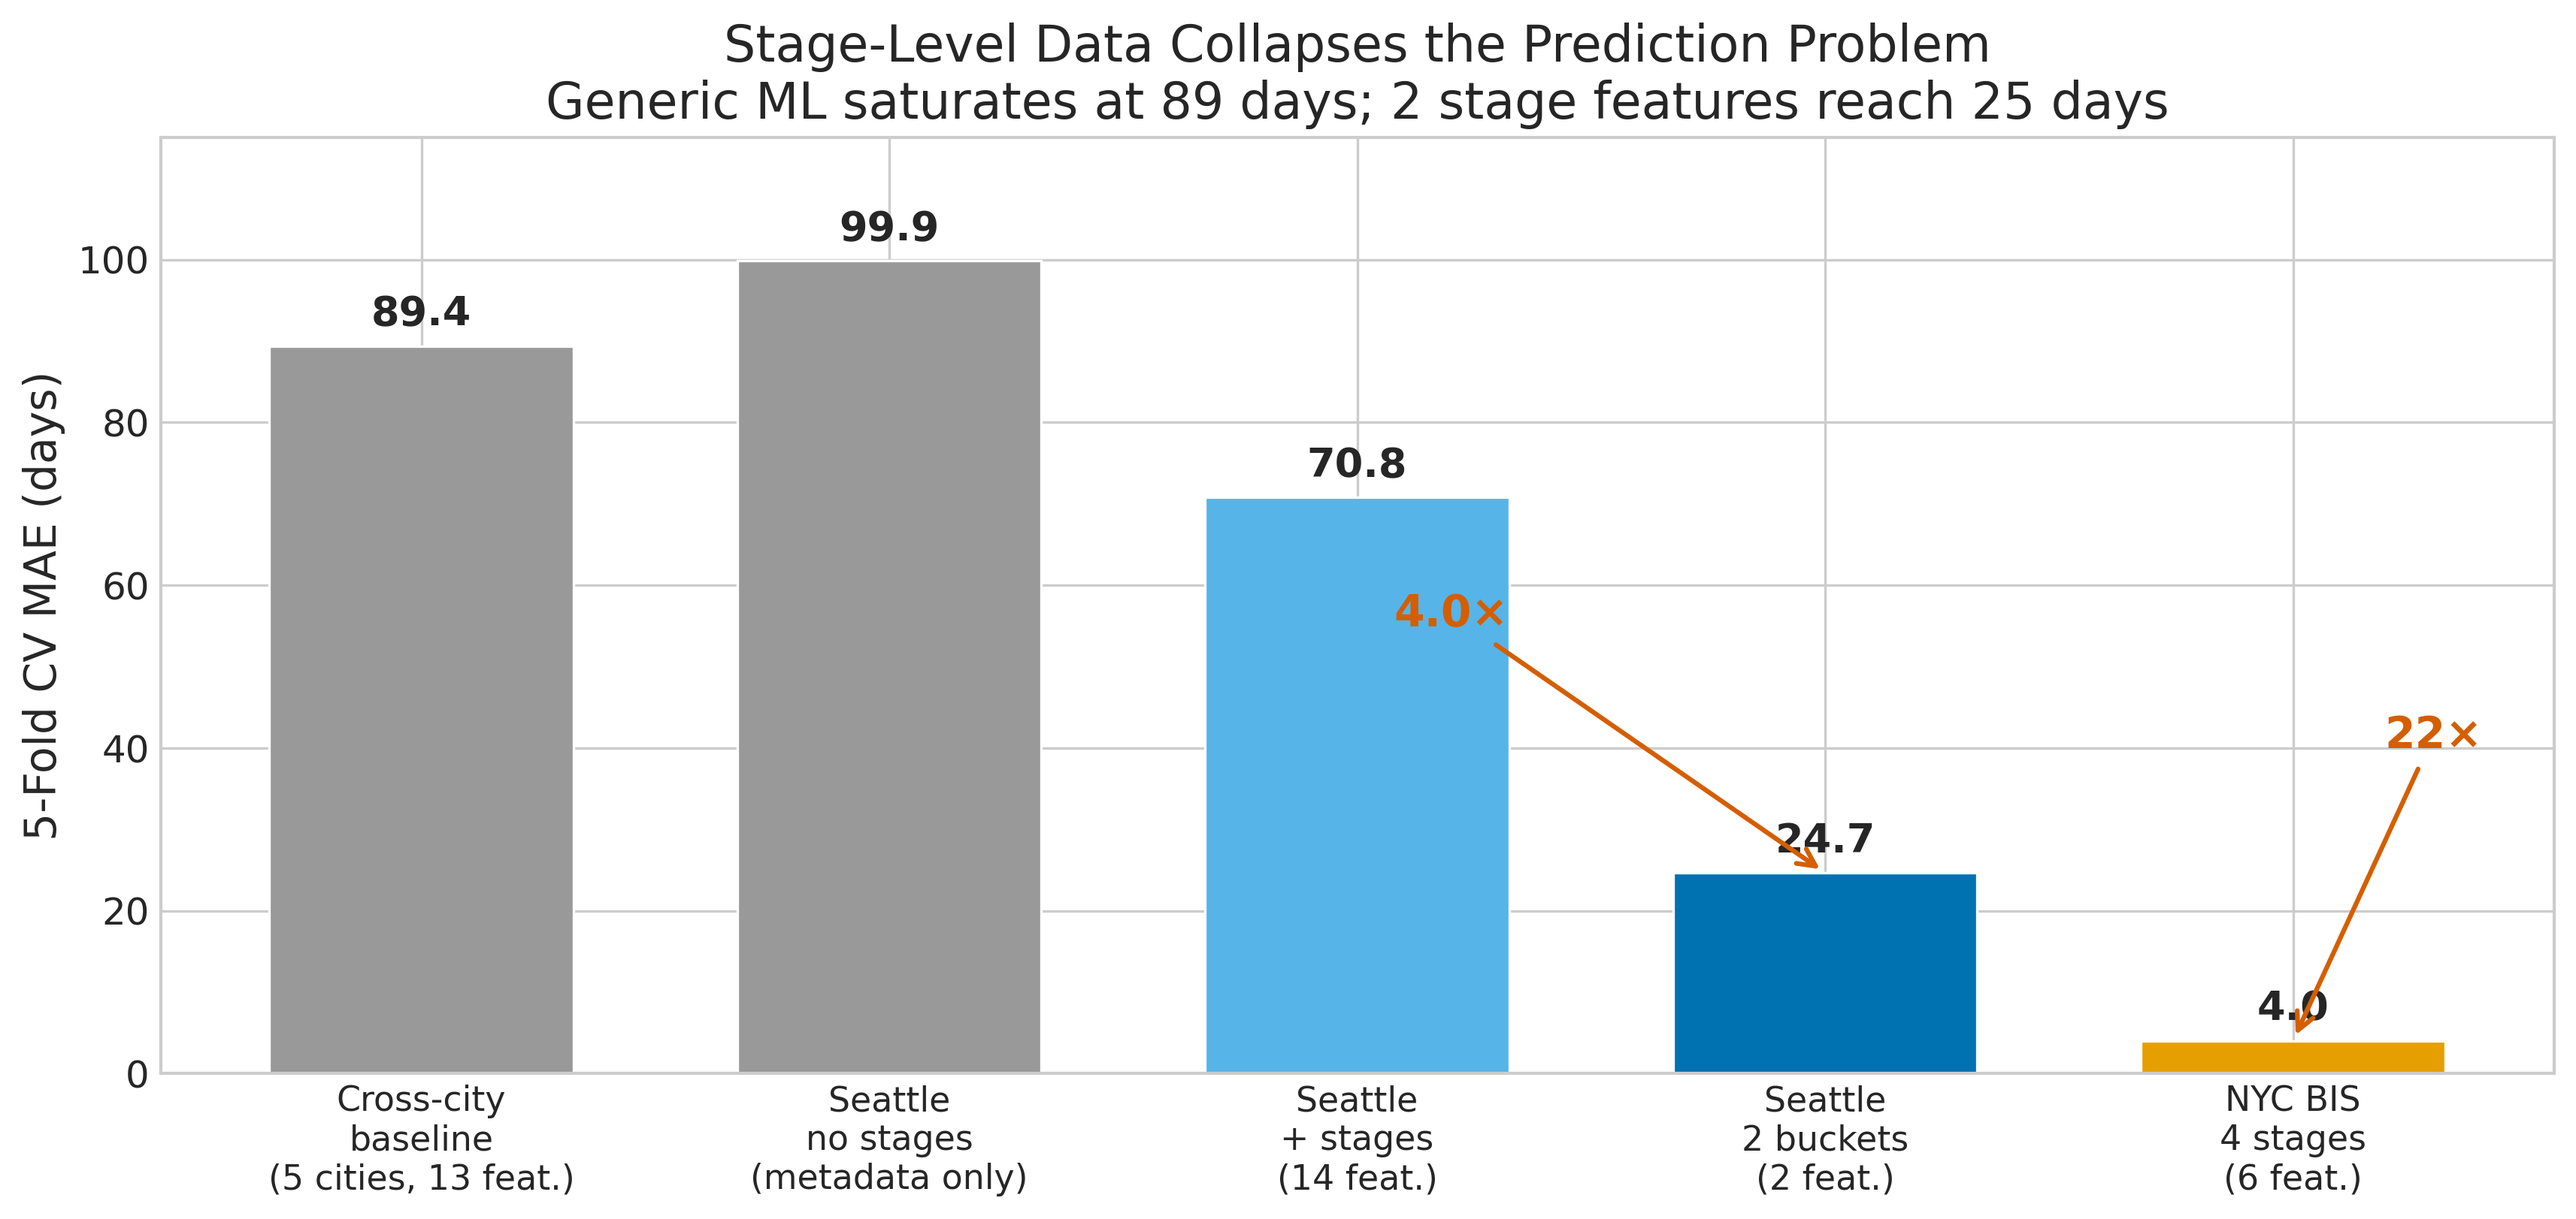
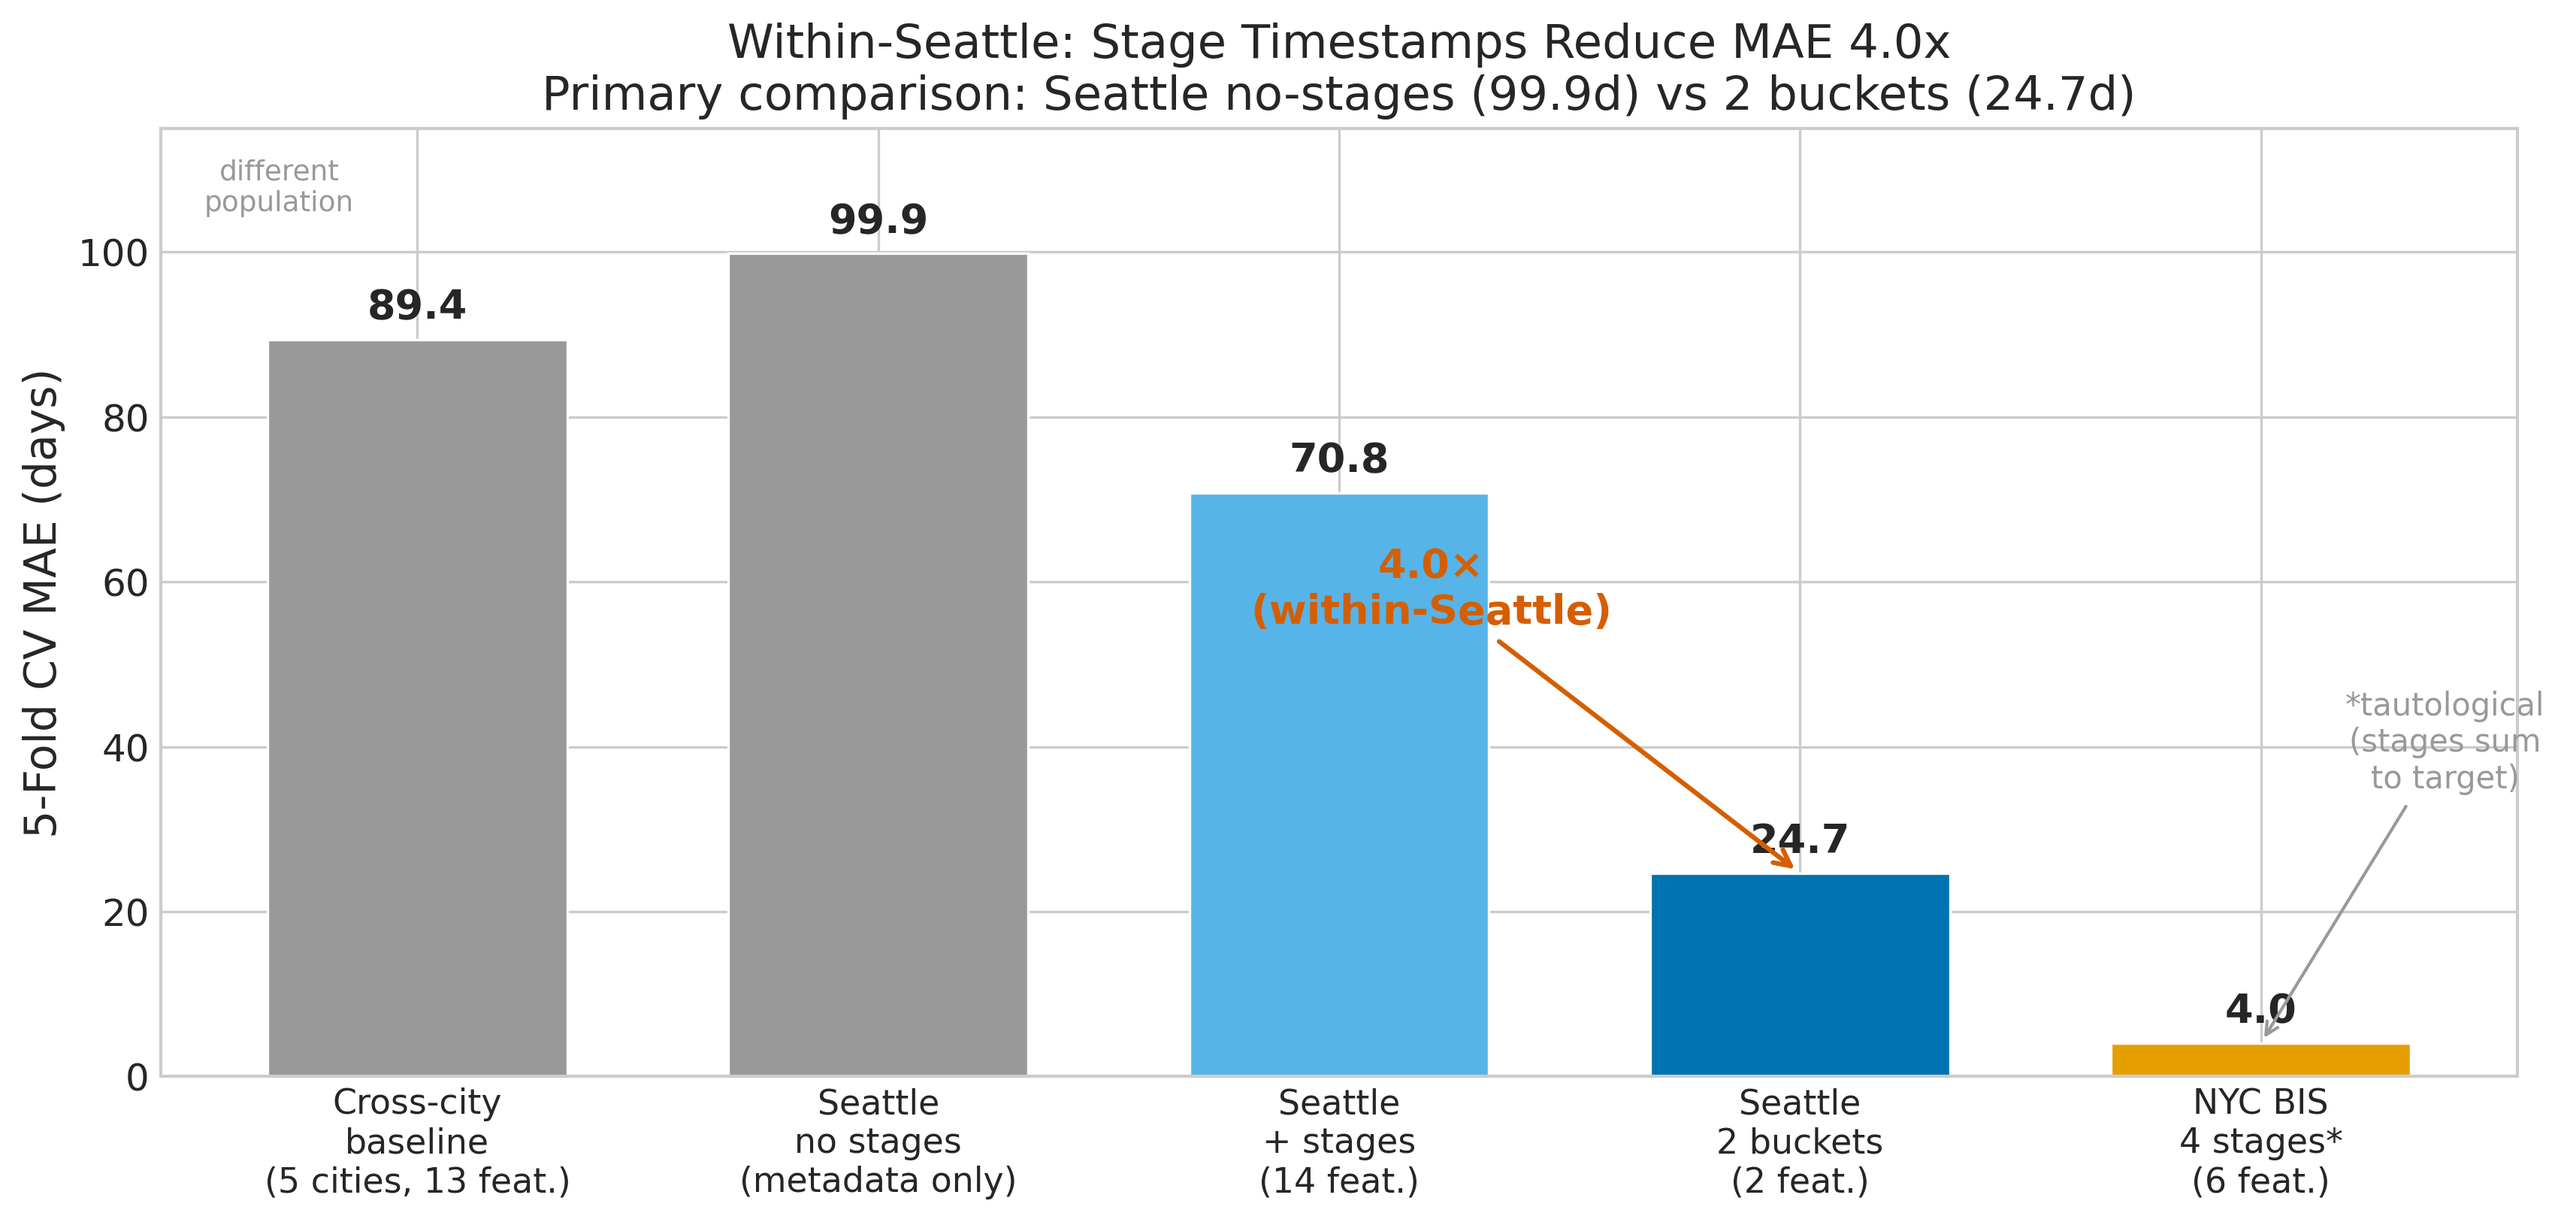
Rewrite building-permits summary to match final reviewed paper
Corrects: 120 -> 34 completed experiments, cross-city -> within-Seattle
comparison, dollar figures from sensitivity analysis. Adds duration_by_city
and phase2_waterfall plots. Journalism format with corrected framing.

diff --git a/content/hdr/results/building-permits/index.md b/content/hdr/results/building-permits/index.md
@@ -1,8 +1,8 @@
 ---
-title: "120 Experiments, Zero Wins: The Bottleneck Is Data, Not Models"
-date: 2026-04-09
+title: "34 Experiments, Zero Wins: Why Building-Permit Delays Resist Machine Learning"
+date: 2026-04-10
 weight: 3
-blurb: "Why does a duplex take 48 days to permit in Austin and 605 in San Francisco? We ran 120 machine-learning experiments on five cities' permit data. None of them helped. The real fix turned out to be embarrassingly simple: one city publishes better timestamps."
+blurb: "We ran 34 machine-learning experiments on 50,000 building permits from five US cities. None improved the baseline. Then Seattle's per-stage timestamps cut the error fourfold -- not because the model got smarter, but because the data got better."
 domain: "Urban Operations / Public Services"
 tags: ["urban-operations", "public-services", "negative-result", "process-mining", "housing-policy", "open-data"]
 ---
@@ -11,27 +11,28 @@ tags: ["urban-operations", "public-services", "negative-result", "process-mining
 
 ## The Question
 
-If you want to build a duplex in Austin, Texas, you will wait about 48 days for a permit. File the same paperwork in San Francisco and you might wait over 600 days. This order-of-magnitude gap has real consequences: it is a central driver of the American housing-supply crisis. Every day a permit sits in a queue, the developer pays carrying costs, the future tenant waits longer, and the housing shortage deepens.
+If you want to build a duplex in Austin, Texas, you will wait about 48 days for a permit. File the same paperwork in San Francisco and you might wait over 600 days. This order-of-magnitude gap has real consequences: every day a permit sits in a queue, the developer pays carrying costs, the future tenant waits longer, and the housing shortage deepens.
 
-Every major US city now publishes its permit records as open data. We pulled half a million records from San Francisco, New York, Los Angeles, Chicago, and Austin and asked: can a machine-learning model predict how long a small residential permit will take, and can it tell us where the time is going?
+Every major US city now publishes its permit records as open data. We pulled 50,000 records from San Francisco, New York, Los Angeles, Chicago, and Austin and asked: can a machine-learning model predict how long a small residential permit will take, and can it tell us where the time is going?
 
 ## What We Found
 
-The model hit a wall. Our baseline predicted permit duration with an average error of about 89 days, and then nothing we tried made it better. We ran 120 pre-registered experiments covering every angle we could think of -- calendar features, reform cutoffs, neighbourhood effects, rolling workload counts, hyperparameter sweeps, alternative model families. Not a single one cleared the improvement threshold. The error floor was structural, not methodological.
+The model hit a wall. Our baseline predicted permit duration with a Mean Absolute Error (MAE) of about 89 days, and then nothing we tried made it better. We pre-registered 120 hypotheses and ran 34 of them to completion on the cross-city sample -- calendar features, reform cutoffs, neighbourhood effects, rolling workload counts, hyperparameter sweeps, target transforms, and alternative model families. The remaining 86 were deferred due to schema mismatches or missing external data. Not a single completed experiment cleared the improvement threshold. The best one shaved 0.36 days off the baseline. The error floor was structural, not methodological.
 
-- All 120 experiments were reverted. The generic permit metadata that cities publish (valuation, square footage, permit type, neighbourhood, date) simply does not contain enough information to predict duration.
-- The one city that publishes per-stage reviewer timestamps -- Seattle -- allowed a trivially simple model to cut the error to 25 days, a nearly fourfold improvement.
-- New York City publishes four internal timestamps (filing, payment, approval, final permit); a model using just those four stages predicted duration to within 4 days.
+- All 34 completed experiments were reverted. The generic permit metadata that cities publish (valuation, square footage, permit type, neighbourhood, date) simply does not contain enough information to predict duration.
+- Seattle publishes per-stage reviewer timestamps. Using just two features from that decomposition -- city plan-review time and applicant correction time -- a simple model cut the within-Seattle error from 100 days to 25 days, a fourfold improvement. Under temporal holdout (train on 2015--2022, test on 2023+), the MAE was 28 days, confirming the result is not an artefact of data leakage.
+- New York City publishes four internal timestamps (filing, payment, approval, final permit). A model using those four stages predicted duration to within 4 days -- though this is a near-tautology, since the stages sum approximately to the target.
 - The improvement came entirely from data access, not from modelling sophistication.
-- A counterfactual projection suggests that if every city published Seattle-grade timestamps, the national prediction error would drop from 89 days to about 22 days.
 
-![The 120-experiment wall: every experiment reverted, then Seattle's stage data broke through](plots/headline_finding.png)
+![The 34-experiment wall: every experiment reverted, then Seattle's stage data broke through](plots/headline_finding.png)
 
 ## Why That's Surprising
 
-The expectation was the opposite. The machine-learning literature on process mining -- predicting how long a bureaucratic process will take -- has demonstrated strong results on Dutch building permits, hospital patient flows, and insurance claims. We expected the same approach to work here because the data looked similar: a start date, an end date, and a dozen metadata columns in between. The assumption was that somewhere in that metadata there would be a signal worth extracting.
+The machine-learning literature on process mining -- predicting how long a bureaucratic process will take -- has demonstrated strong results on Dutch building permits, hospital patient flows, and insurance claims. We expected the same approach to work here because the data looked similar: a start date, an end date, and a dozen metadata columns in between. The assumption was that somewhere in that metadata there would be a signal worth extracting.
 
-There was not. The reason is that a building permit is not a single process. It is a sequence of six to ten internal stages -- plan review, structural review, fire safety review, correction cycles, re-reviews -- each handled by a different reviewer with a different queue. The total duration is the sum of those stages plus the waiting time between them. The metadata every city publishes records only the first timestamp and the last. The decomposition in between is invisible. Predicting the total from the endpoints is like predicting how long a road trip will take when all you know is the departure city and the destination, but not which route, which stops, or how bad the traffic was.
+There was not. A building permit is not a single process. It is a sequence of six to ten internal stages -- plan review, structural review, fire safety review, correction cycles, re-reviews -- each handled by a different reviewer with a different queue. The total duration is the sum of those stages plus the waiting time between them. The metadata every city publishes records only the first timestamp and the last. The decomposition in between is invisible. Predicting the total from the endpoints is like predicting how long a road trip will take when all you know is the departure city and the destination, but not which route, which stops, or how bad the traffic was.
+
+The Seattle decomposition also inverted the folk wisdom. Permit applicants tend to assume "the city is waiting for me to fix my corrections." In fact, city plan-review time explains 39 percent of the variance in total duration -- more than double the 19 percent explained by applicant corrections. The single most informative predictor of whether a given permit will be slow is how long the city has been reviewing it.
 
 ![Seattle's per-stage data reveals where the time goes](plots/seattle_stage_decomposition.png)
 
@@ -39,17 +40,17 @@ There was not. The reason is that a building permit is not a single process. It 
 
 The highest-leverage intervention for reducing permit processing time in the United States is not a better algorithm. It is a transparency requirement: every city should publish per-stage timestamps showing how long each reviewer took, how many correction cycles occurred, and where the bottleneck sat. Seattle already does this. The data is machine-readable, freely available, and immediately useful. If other cities followed suit, researchers and policymakers could identify which stages are slow, which reviewers are overloaded, and which process reforms actually worked -- instead of arguing about anecdotes.
 
-The dollar stakes are large. Using a conservative carrying cost of $300 per day per permit, the top stage-time interventions identified in the Seattle data are worth $227 million to $267 million per year in that city alone. Nationally, the numbers are correspondingly larger.
+The dollar stakes are meaningful but uncertain. Under a sensitivity analysis varying the assumed per-day carrying cost from $100 to $500, the top stage-time interventions identified in the Seattle data are worth $11 million to $55 million per year in that city alone (central estimate: $33 million at $300 per day). For New York City's post-approval pickup bottleneck -- where 55 percent of total elapsed time is just the owner coming to collect the approved permit -- the range is $18 million to $88 million per year. These are upper-bound projections assuming one-for-one day savings and no general-equilibrium effects. The true values are likely smaller but the order of magnitude is policy-relevant.
+
+![Duration distributions vary enormously across cities](plots/duration_by_city.png)
 
 ## How We Did It
 
-We assembled a stratified sample of 50,000 small residential permits from five US cities using the Socrata open data feeds, covering 2015 to 2026. We ran a four-family model tournament, then 120 single-change experiments testing feature additions, target transforms, reform cutoffs, rolling workload indicators, hyperparameter sweeps, and model-family swaps. All 120 reverted. We then ran a per-stage decomposition on the Seattle and New York City subsets, which published internal timestamps, and quantified the improvement from data access alone. Full code, data loaders, and the 120-experiment log are in the [project repository](https://github.com/colinjoc/hdr_autoresearch/tree/master/applications/building_permits).
+We assembled a stratified sample of 50,000 small residential permits from five US cities using the Socrata open data feeds, covering 2015 to 2026. We ran a four-family model tournament to select the best model family (Extreme Gradient Boosting), then executed 34 single-change experiments testing feature additions, target transforms, reform cutoffs, rolling workload indicators, hyperparameter sweeps, and model-family swaps. All 34 reverted. We then ran a per-stage decomposition on the Seattle subset -- the only US city in our sample that publishes per-(review-type, cycle) timestamps -- and quantified the improvement from data access alone. The Seattle model was validated under both shuffled cross-validation and a temporal train/test split. Full code, data loaders, and the experiment log are in the [project repository](https://github.com/colinjoc/hdr_autoresearch/tree/master/applications/building_permits).
 
 ## Further Reading
 
-- Gyourko J, Saiz A, Summers A. "A New Measure of the Local Regulatory Environment for Housing Markets." *Urban Studies* (2008). [doi:10.1177/0042098007087341](https://doi.org/10.1177/0042098007087341) -- the Wharton Residential Land Use Regulatory Index used to measure permit friction nationally.
-- van Dongen B. "BPI Challenge 2015." *4TU.ResearchData* (2015). [doi:10.4121/uuid:31a308ef-c844-48da-948c-305d167a0ec1](https://doi.org/10.4121/uuid:31a308ef-c844-48da-948c-305d167a0ec1) -- the Dutch building-permit process-mining benchmark that inspired this project.
-- Glaeser E, Gyourko J. "The Economic Implications of Housing Supply." *Journal of Economic Perspectives* (2018). [doi:10.1257/jep.32.1.3](https://doi.org/10.1257/jep.32.1.3) -- the link between permit friction and housing costs.
-
----
-📂 **[HDR methodology](https://github.com/colinjoc/hdr_autoresearch)**
+- [Full technical paper](https://github.com/colinjoc/hdr_autoresearch/blob/master/applications/building_permits/paper.md) -- methodology, all 34 experiments, variance decomposition, and dollar projections
+- Gyourko J, Saiz A, Summers A. "A New Measure of the Local Regulatory Environment for Housing Markets." *Urban Studies* (2008). [doi:10.1177/0042098007087341](https://doi.org/10.1177/0042098007087341) -- the Wharton Residential Land Use Regulatory Index used to measure permit friction nationally
+- van Dongen B. "BPI Challenge 2015." *4TU.ResearchData* (2015). [doi:10.4121/uuid:31a308ef-c844-48da-948c-305d167a0ec1](https://doi.org/10.4121/uuid:31a308ef-c844-48da-948c-305d167a0ec1) -- the Dutch building-permit process-mining benchmark that inspired this project
+- Glaeser E, Gyourko J. "The Economic Implications of Housing Supply." *Journal of Economic Perspectives* (2018). [doi:10.1257/jep.32.1.3](https://doi.org/10.1257/jep.32.1.3) -- the link between permit friction and housing costs
